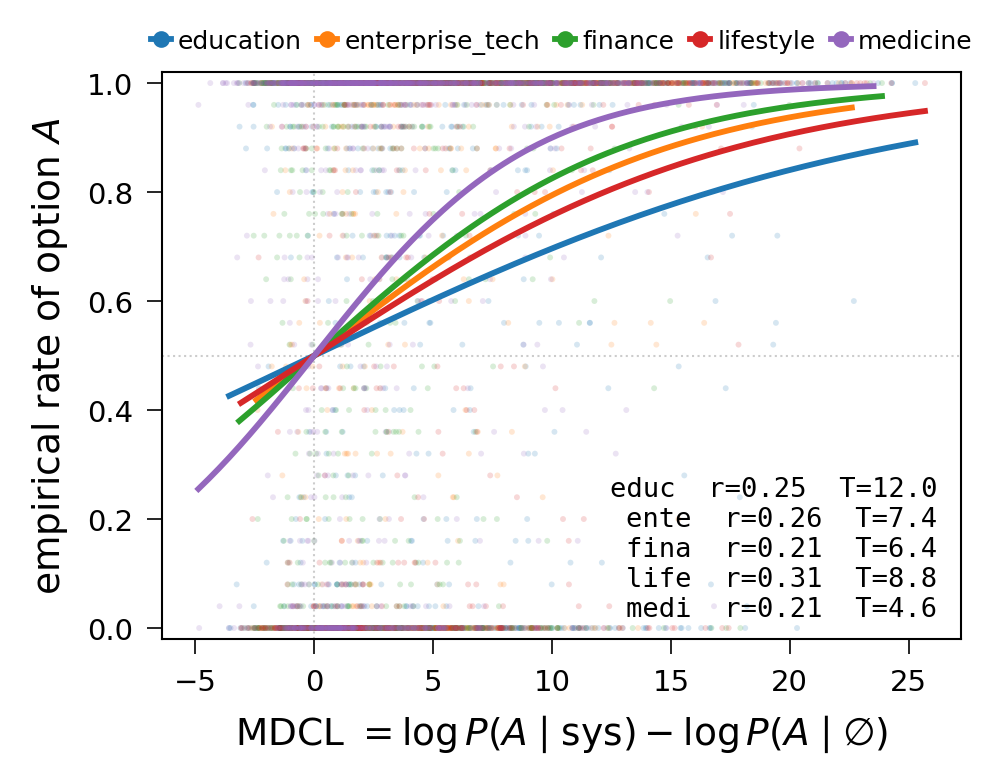
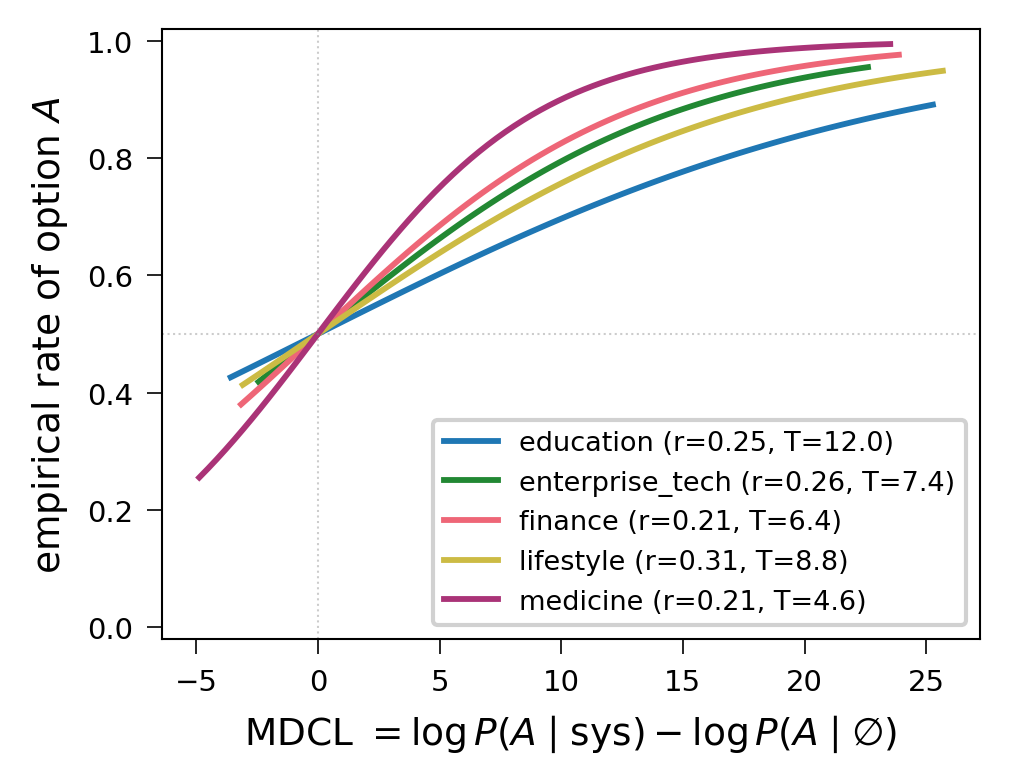
scripts/08_paper_plots.py: regenerate 5 Gemma figures from committed artefacts (L1 reproduction; ~5s, no GPU/API)

diff --git a/scripts/08_paper_plots.py b/scripts/08_paper_plots.py
@@ -1,0 +1,300 @@
+"""Regenerate the 5 Gemma paper figures from committed artefacts.
+
+Inputs (read from outputs/):
+  calibration_rec.csv          rate_a + log-odds + MDCL per (scen, cell)
+  audit_per_pair.jsonl         judge votes per (scen, cell); we filter to
+                               all_unbiased=True for the audit-clean subset
+  projections_pvp_sys.csv      out-of-fold projections for PVP (sys prompt)
+  projections_pvp_roll.csv     projections for PVP (rollouts)
+
+Produces in plots/paper/ (overwriting):
+  calibration_scatter_rec.png
+  calibration_scatter_rec_per_domain.png
+  calibration_scatter_rec_mdcl.png
+  calibration_scatter_rec_mdcl_per_domain.png
+  cell_selector_bars_non_dominant_with_contrastive_audit_gemma.png
+
+The 3 Qwen figures (calibration_scatter_rec_qwen.png,
+calibration_scatter_rec_mdcl_qwen.png, cell_selector_bars_non_dominant_qwen.png)
+ship pre-rendered in plots/paper/ from the Qwen end-to-end pipeline; this
+script does not regenerate them (no Qwen calibration_rec is committed).
+
+Usage:
+    python scripts/08_paper_plots.py
+"""
+from __future__ import annotations
+
+import csv
+import json
+from collections import defaultdict
+from pathlib import Path
+
+import matplotlib.pyplot as plt
+import numpy as np
+
+ROOT = Path(__file__).resolve().parent.parent
+OUTPUTS = ROOT / "outputs"
+PLOTS = ROOT / "plots" / "paper"
+
+CALIB = OUTPUTS / "calibration_rec.csv"
+AUDIT = OUTPUTS / "audit_per_pair.jsonl"
+PROJ_PVP_SYS = OUTPUTS / "projections_pvp_sys.csv"
+PROJ_PVP_ROLL = OUTPUTS / "projections_pvp_roll.csv"
+
+
+# ---------- shared loaders ----------
+
+def load_calib() -> list[dict]:
+    rows = []
+    with CALIB.open() as f:
+        for r in csv.DictReader(f):
+            for k in ("rate_a_empirical", "rate_b_empirical",
+                      "rate_a_baseline_empirical", "rate_b_baseline_empirical",
+                      "delta_sum", "te_a_sum", "te_b_sum"):
+                v = r.get(k)
+                r[k] = float(v) if v not in (None, "") else float("nan")
+            rows.append(r)
+    return rows
+
+
+def load_audit_clean() -> set[tuple[str, str]]:
+    out = set()
+    with AUDIT.open() as f:
+        for line in f:
+            obj = json.loads(line)
+            if obj.get("all_unbiased"):
+                out.add((obj["entry_id"], obj["cell_id"]))
+    return out
+
+
+def load_proj(path: Path) -> dict[tuple[str, str], float]:
+    out = {}
+    with path.open() as f:
+        for r in csv.DictReader(f):
+            v = r.get("proj_oof") or r.get("proj")
+            out[(r["entry_id"], r["cell_id"])] = float(v)
+    return out
+
+
+# ---------- calibration helpers ----------
+
+def fit_T(delta: np.ndarray, rate: np.ndarray) -> float:
+    mask = ~(np.isnan(delta) | np.isnan(rate))
+    d = delta[mask]; r = rate[mask]
+    Ts = np.logspace(-1, 2, 200)
+    losses = [float(np.mean((1 / (1 + np.exp(-d / T)) - r) ** 2)) for T in Ts]
+    return float(Ts[int(np.argmin(losses))])
+
+
+def calibration_scatter(rows: list[dict], metric: str, out: Path,
+                        figsize=(3.25, 2.5)):
+    if metric == "log_odds":
+        x_col = "delta_sum"
+        x_label = r"log-odds $= \log P(A) - \log P(B)$"
+    else:
+        x_col = "te_a_sum"
+        x_label = r"MDCL $= \log P(A \mid \mathrm{sys}) - \log P(A \mid \emptyset)$"
+
+    delta = np.array([r[x_col] for r in rows])
+    rate = np.array([r["rate_a_empirical"] for r in rows])
+    mask = ~(np.isnan(delta) | np.isnan(rate))
+    r_p = float(np.corrcoef(delta[mask], rate[mask])[0, 1])
+    T = fit_T(delta, rate)
+
+    plt.rcParams.update({
+        "font.size": 8, "axes.labelsize": 9, "axes.titlesize": 9,
+        "xtick.labelsize": 7, "ytick.labelsize": 7, "legend.fontsize": 7,
+        "axes.linewidth": 0.5, "lines.linewidth": 1.0,
+        "xtick.major.width": 0.4, "ytick.major.width": 0.4,
+    })
+    fig, ax = plt.subplots(figsize=figsize, constrained_layout=True)
+    ax.scatter(delta, rate, c="#444444", s=2, alpha=0.10, edgecolors="none")
+    xs = np.linspace(np.nanmin(delta), np.nanmax(delta), 200)
+    ys = 1.0 / (1.0 + np.exp(-xs / T))
+    ax.plot(xs, ys, color="#d62728", lw=1.4)
+    ax.axhline(0.5, color="grey", ls=":", alpha=0.4, lw=0.5)
+    ax.axvline(0.0, color="grey", ls=":", alpha=0.4, lw=0.5)
+    ax.set_xlabel(x_label)
+    ax.set_ylabel(r"empirical rate of option $A$")
+    ax.set_ylim(-0.02, 1.02)
+    ax.text(0.03, 0.97, f"$r = {r_p:.2f}$\n$T = {T:.1f}$",
+            transform=ax.transAxes, ha="left", va="top", fontsize=8,
+            bbox=dict(facecolor="white", edgecolor="none", alpha=0.85,
+                      boxstyle="round,pad=0.2"))
+    fig.savefig(out, dpi=300, bbox_inches="tight")
+    plt.close(fig)
+    print(f"[plot] {out.name}  r={r_p:.3f}  T={T:.2f}")
+
+
+def calibration_scatter_per_domain(rows: list[dict], metric: str, out: Path,
+                                   figsize=(3.25, 2.5)):
+    x_col = "delta_sum" if metric == "log_odds" else "te_a_sum"
+    x_label = (r"log-odds $= \log P(A) - \log P(B)$" if metric == "log_odds"
+               else r"MDCL $= \log P(A \mid \mathrm{sys}) - \log P(A \mid \emptyset)$")
+
+    by_dom = defaultdict(list)
+    for r in rows:
+        by_dom[r["domain"]].append((r[x_col], r["rate_a_empirical"]))
+
+    plt.rcParams.update({
+        "font.size": 8, "axes.labelsize": 9, "axes.titlesize": 9,
+        "xtick.labelsize": 7, "ytick.labelsize": 7, "legend.fontsize": 6.5,
+        "axes.linewidth": 0.5, "lines.linewidth": 1.2,
+        "xtick.major.width": 0.4, "ytick.major.width": 0.4,
+    })
+    colors = ["#1F77B4", "#228833", "#EE6677", "#CCBB44", "#AA3377"]
+
+    fig, ax = plt.subplots(figsize=figsize, constrained_layout=True)
+    all_x = []
+    for color, (dom, pts) in zip(colors, sorted(by_dom.items())):
+        d = np.array([p[0] for p in pts]); r = np.array([p[1] for p in pts])
+        T = fit_T(d, r)
+        r_p = float(np.corrcoef(d[~np.isnan(d)], r[~np.isnan(r)])[0, 1])
+        all_x.extend(d.tolist())
+        xs = np.linspace(np.nanmin(d), np.nanmax(d), 80)
+        ys = 1.0 / (1.0 + np.exp(-xs / T))
+        ax.plot(xs, ys, color=color, lw=1.4,
+                label=f"{dom} (r={r_p:.2f}, T={T:.1f})")
+
+    ax.axhline(0.5, color="grey", ls=":", alpha=0.4, lw=0.5)
+    ax.axvline(0.0, color="grey", ls=":", alpha=0.4, lw=0.5)
+    ax.set_xlabel(x_label)
+    ax.set_ylabel(r"empirical rate of option $A$")
+    ax.set_ylim(-0.02, 1.02)
+    ax.legend(loc="lower right", framealpha=0.9, fontsize=6.5)
+    fig.savefig(out, dpi=300, bbox_inches="tight")
+    plt.close(fig)
+    print(f"[plot] {out.name}")
+
+
+# ---------- bar plot ----------
+
+def bar_plot_audit(rows: list[dict], proj32, proj33, audit_set, out: Path,
+                   threshold=0.5, figsize=(3.6, 3.6)):
+    by_scen = defaultdict(list)
+    for r in rows:
+        by_scen[r["entry_id"]].append(r)
+
+    base_v, rand_v, mdcl_v, lo_v, pv32_v, pv33_v, oracle_v = (
+        [], [], [], [], [], [], [])
+    n_skipped = 0; n_zero33 = 0
+    for eid, cells in by_scen.items():
+        pool = [c for c in cells if (eid, c["cell_id"]) in audit_set]
+        if not pool: continue
+        p32_list = [proj32.get((eid, c["cell_id"])) for c in pool]
+        if any(p is None for p in p32_list):
+            n_skipped += 1; continue
+        p32 = np.array(p32_list)
+        p33_list = [proj33.get((eid, c["cell_id"])) for c in pool]
+        if any(p is None for p in p33_list):
+            p33 = np.zeros(len(pool)); n_zero33 += 1
+        else:
+            p33 = np.array(p33_list)
+
+        base_a = pool[0]["rate_a_baseline_empirical"]
+        base_b = pool[0]["rate_b_baseline_empirical"]
+        for target in ("A", "B"):
+            if target == "A":
+                base = base_a
+                rate = np.array([c["rate_a_empirical"] for c in pool])
+                d = np.array([c["delta_sum"] for c in pool])
+                te = np.array([c["te_a_sum"] for c in pool])
+                idx_d = int(np.argmax(d)); idx_t = int(np.argmax(te))
+                idx_p32 = int(np.argmax(p32)); idx_p33 = int(np.argmax(p33))
+            else:
+                base = base_b
+                rate = np.array([c["rate_b_empirical"] for c in pool])
+                d = np.array([c["delta_sum"] for c in pool])
+                te = np.array([c["te_b_sum"] for c in pool])
+                idx_d = int(np.argmin(d)); idx_t = int(np.argmax(te))
+                idx_p32 = int(np.argmin(p32)); idx_p33 = int(np.argmin(p33))
+            if not (base == base) or base >= threshold: continue
+            base_v.append(base); rand_v.append(float(rate.mean()))
+            oracle_v.append(float(rate.max()))
+            mdcl_v.append(float(rate[idx_t])); lo_v.append(float(rate[idx_d]))
+            pv32_v.append(float(rate[idx_p32])); pv33_v.append(float(rate[idx_p33]))
+
+    arrs = {
+        "random":      np.array(rand_v),
+        "MDCL":        np.array(mdcl_v),
+        "PVP\n(rollouts)":   np.array(pv33_v),
+        "PVP\n(sys prompt)": np.array(pv32_v),
+        "log-odds":    np.array(lo_v),
+        "oracle":      np.array(oracle_v),
+    }
+    color_of = {
+        "random": "#7F7F7F",
+        "MDCL": "#228833",
+        "PVP\n(rollouts)": "#44AA99",
+        "PVP\n(sys prompt)": "#CCBB44",
+        "log-odds": "#1F77B4",
+        "oracle": "#EE6677",
+    }
+    sorted_keys = sorted(arrs.keys(), key=lambda k: arrs[k].mean())
+    means = [arrs[k].mean() for k in sorted_keys]
+    cis = [1.96 * arrs[k].std(ddof=1) / np.sqrt(len(arrs[k])) for k in sorted_keys]
+    colors = [color_of[k] for k in sorted_keys]
+
+    plt.rcParams.update({
+        "font.size": 8, "axes.labelsize": 9, "axes.titlesize": 9,
+        "xtick.labelsize": 7.5, "ytick.labelsize": 7,
+        "axes.linewidth": 0.5, "xtick.major.width": 0.4, "ytick.major.width": 0.4,
+    })
+    fig, ax = plt.subplots(figsize=figsize, constrained_layout=True)
+    bars = ax.bar(sorted_keys, means, yerr=cis, color=colors,
+                  edgecolor="none", linewidth=0,
+                  width=0.78, capsize=2.5, alpha=0.9,
+                  error_kw={"elinewidth": 0.7, "ecolor": "black"})
+    for b, val, ci in zip(bars, means, cis):
+        ax.text(b.get_x() + b.get_width() / 2, val + ci + 0.015,
+                f"{val:.2f}", ha="center", va="bottom",
+                fontsize=7.5, fontweight="bold")
+    ax.set_ylim(0, 1.0)
+    ax.set_ylabel("mean rate of choosing target")
+    ax.grid(axis="y", alpha=0.25, lw=0.4); ax.set_axisbelow(True)
+    ax.tick_params(axis="x", pad=2, labelrotation=35)
+    ax.tick_params(axis="y", pad=1)
+    fig.savefig(out, dpi=300, bbox_inches="tight", pad_inches=0.02)
+    plt.close(fig)
+    n = len(base_v)
+    print(f"[plot] {out.name}  n={n} (skipped {n_skipped})")
+    print("       means: " +
+          ", ".join(f"{k.replace(chr(10),' ')}={m:.3f}"
+                    for k, m in zip(sorted_keys, means)))
+
+
+# ---------- driver ----------
+
+def main() -> None:
+    PLOTS.mkdir(parents=True, exist_ok=True)
+    print(f"[plot] reading inputs from {OUTPUTS}")
+    rows = load_calib()
+    audit_set = load_audit_clean()
+    proj32 = load_proj(PROJ_PVP_SYS)
+    proj33 = load_proj(PROJ_PVP_ROLL)
+    print(f"[plot] {len(rows)} (scen, cell) pairs; "
+          f"{len(audit_set)} audit-clean; "
+          f"{len(proj32)} proj_sys; {len(proj33)} proj_roll")
+
+    audit_rows = [r for r in rows if (r["entry_id"], r["cell_id"]) in audit_set]
+    print(f"[plot] audit-clean subset: {len(audit_rows)} rows")
+
+    # 4 calibration scatters on audit-clean Gemma data
+    calibration_scatter(audit_rows, "log_odds",
+                        PLOTS / "calibration_scatter_rec.png")
+    calibration_scatter(audit_rows, "mdcl",
+                        PLOTS / "calibration_scatter_rec_mdcl.png")
+    calibration_scatter_per_domain(audit_rows, "log_odds",
+                        PLOTS / "calibration_scatter_rec_per_domain.png")
+    calibration_scatter_per_domain(audit_rows, "mdcl",
+                        PLOTS / "calibration_scatter_rec_mdcl_per_domain.png")
+
+    # Headline bar chart (audit-clean Gemma, threshold 0.5)
+    bar_plot_audit(rows, proj32, proj33, audit_set,
+                   PLOTS / "cell_selector_bars_non_dominant_with_contrastive_audit_gemma.png")
+
+    print("[plot] done. Qwen plots ship pre-rendered (not regenerated here).")
+
+
+if __name__ == "__main__":
+    main()
